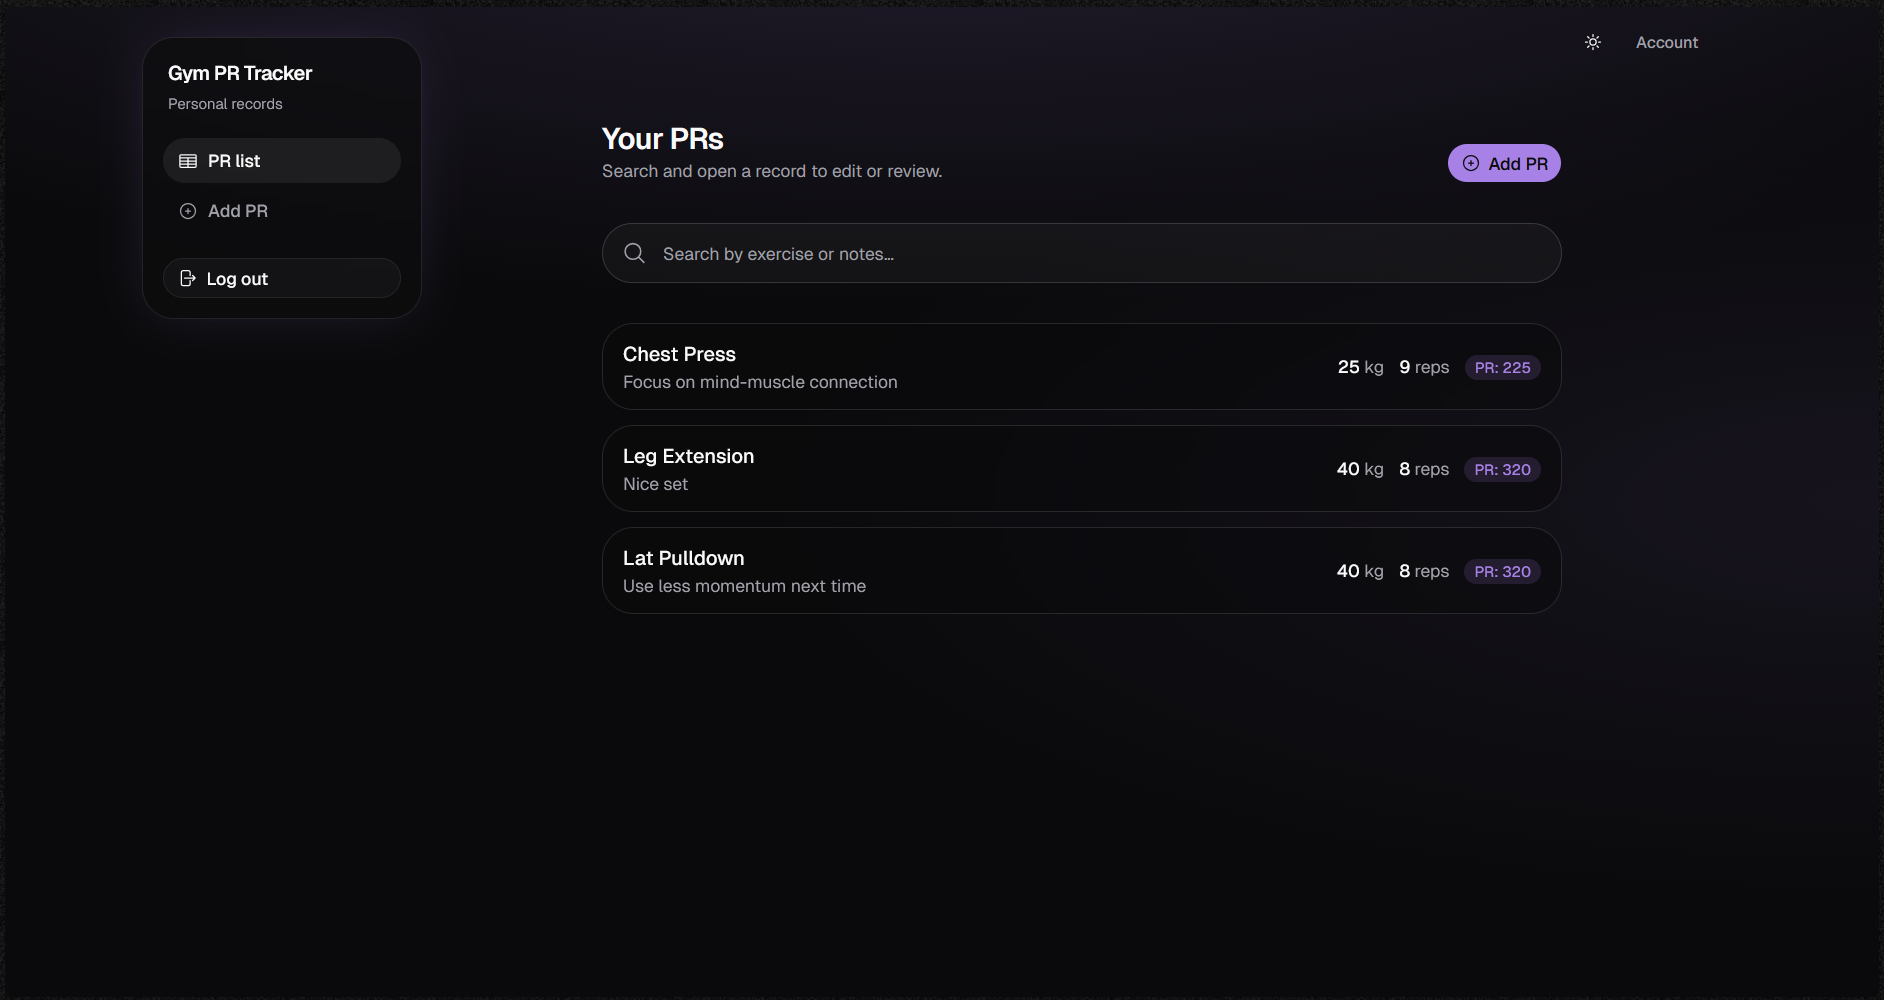
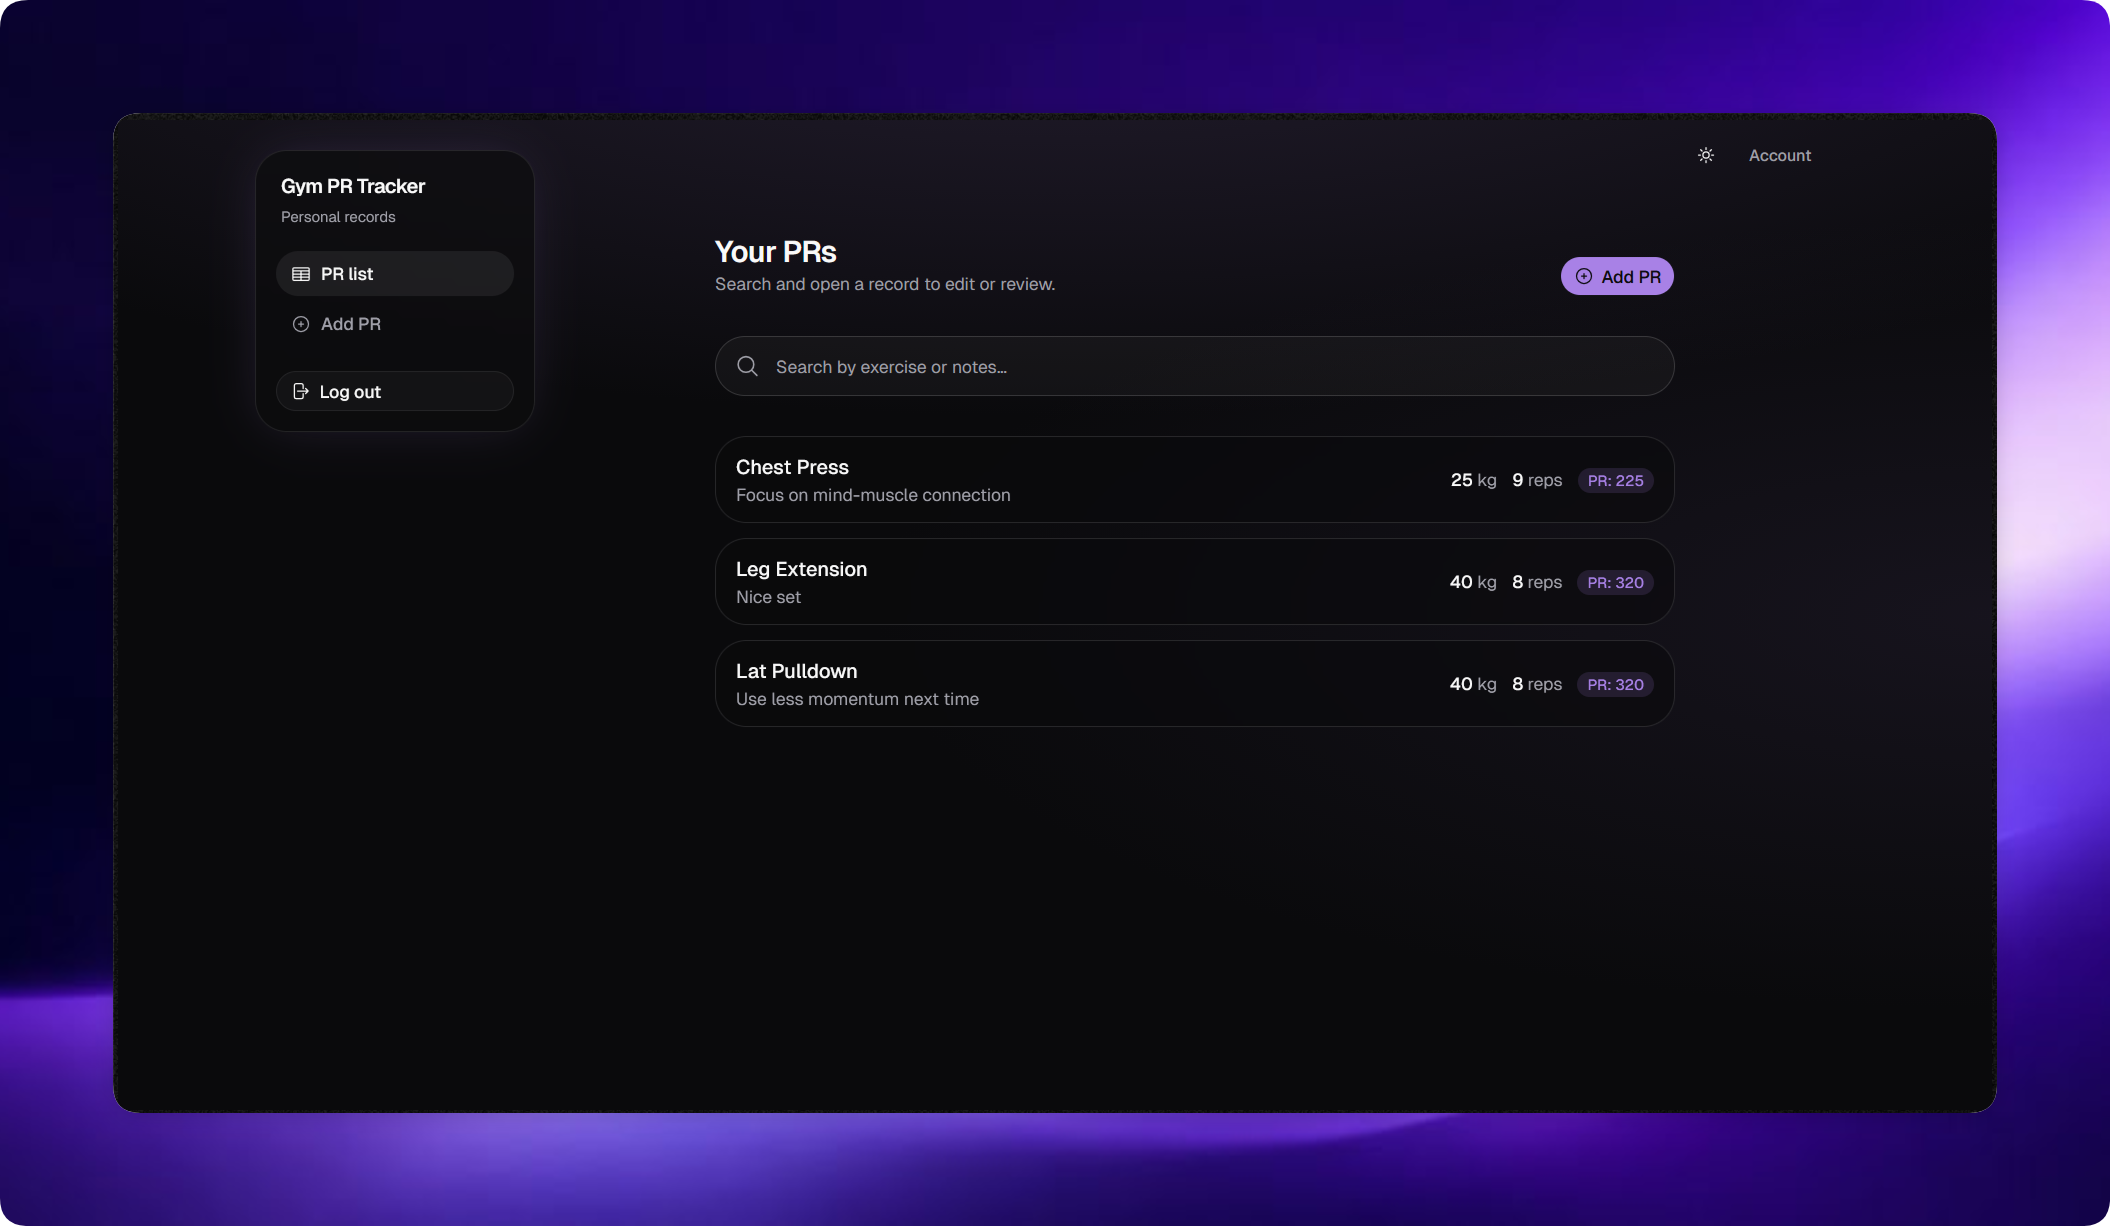
Update Projects

diff --git a/frontend/src/components/ProjectsSection.jsx b/frontend/src/components/ProjectsSection.jsx
@@ -1,12 +1,14 @@
-import gymPRTrackerImage from "../assets/gymPRTracker.png";
+import clavierImage from "../assets/clavier.png"
+import gymPRTrackerImage from "../assets/gymPRTracker.png"
 import ProjectCard from "./ProjectCard";
+
 
 function ProjectsSection() {
   const projects = [
     {
-      title: "E-commerce App",
+      title: "Clavier",
       description:
-        "Full-stack web application for an e-commerce platform with user authentication, product management, and shopping cart functionality.",
+        "Full-stack web application for a Keyboar Selling e-commerce platform with user authentication, product management, and shopping cart functionality.",
       techStack: [
         "React",
         "TypeScript",
@@ -15,10 +17,10 @@ function ProjectsSection() {
         "Express",
         "PostgreSQL",
       ],
-      // image: gymPRTrackerImage,
+      image: clavierImage,
       status: "in-progress",
-      liveUrl: "",
-      githubUrl: "https://github.com/jusxtdev/E-Commerce-App.git",
+      liveUrl: "https://clavier-l10g.onrender.com/",
+      githubUrl: "https://github.com/jusxtdev/Clavier.git",
     },
     {
       title: "Gym-PR-Tracker",
